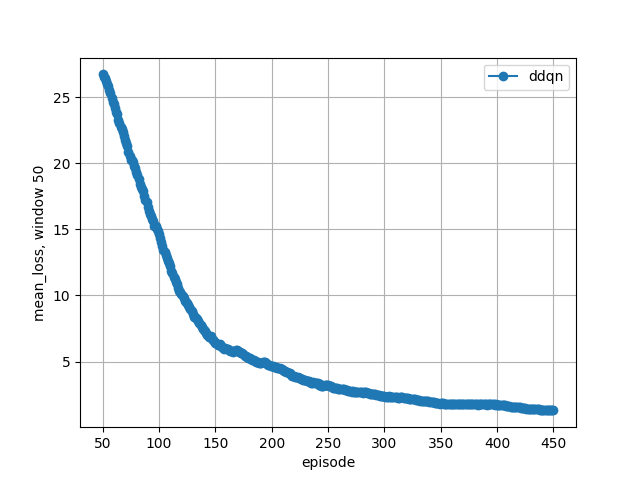
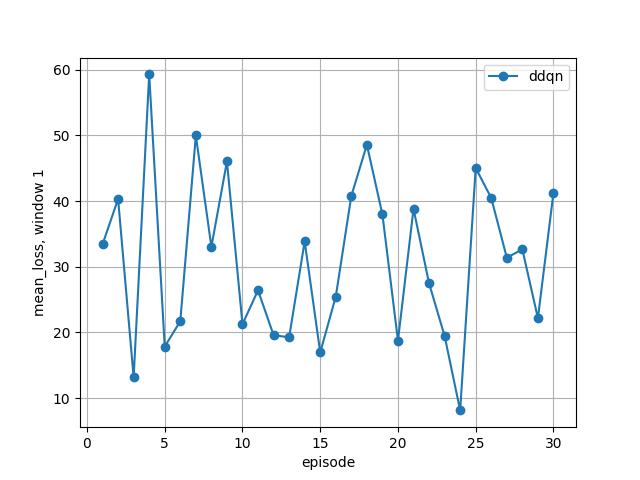
debug optimal solution

diff --git a/utils/optimum.py b/utils/optimum.py
@@ -16,6 +16,7 @@ class Opt:
         self.allowed_splits_blocks = allowed_splits_blocks
         self.max_energy_credit = self.scenario_params['max_energy_credit']
         self.max_inference_latency = self.scenario_params['max_inference_latency']
+        self.opt_split = None
         self.energy_credit_consumed = 0.0  # energy credit consumed initially is 0%
         self.total_flops_offloaded = 0  # captures the cumulative flops offloaded by the ue until now
         self.total_flops = 0  # captures total flops of all layers (static value)
@@ -31,7 +32,6 @@ class Opt:
         constraints_satisfied = [False for _ in range(num_feasible_splits)] # stores if constraints are satisfied
         # for each feasible split, compute the optimization and store it in a list
         # and check if constraints are satisfied, store the result in a list
-        #print(feasible_splits)
         for i, split in enumerate(feasible_splits):
             #print(split)
             # compute the flops to be offloaded due to this selected split
@@ -48,26 +48,39 @@ class Opt:
                 constraints_satisfied[i] = True
             else:
                 constraints_satisfied[i] = False
+        print(constraints_satisfied)
+        print(evaluations)
         # start with the first split as the default
         best_split_evaluation = evaluations[min_idx]
         best_split = feasible_splits[min_idx]
         # for each split that satisfies constraints, check if it's the minimum
         for i, opt in enumerate(evaluations):
-            if constraints_satisfied[i]:
-                if evaluations[i] < best_split_evaluation:
+            if not constraints_satisfied[i]:
+                continue
+            else:
+                if opt < best_split_evaluation:
                     min_idx = i
-                    best_split_evaluation = evaluations[min_idx]
+                    best_split_evaluation = opt
                     best_split = feasible_splits[min_idx]
+        print('best split {}, min idx {}'.format(best_split, min_idx))
+        # update the variables using the best split
+        flops_offloaded, flops_on_ue = self.get_flops_offloaded(best_split, self.allowed_splits_blocks)
+        # also update the energy credit consumed
+        energy_credit_criteria, energy_credit_consumed = self.check_energy_credit_budget(flops_offloaded)
+        self.total_flops_on_ue += flops_on_ue
+        if energy_credit_criteria:  # update only when the criteria is satisfied, else previous value remains
+            self.energy_credit_consumed = energy_credit_consumed
+            self.total_flops_offloaded += flops_offloaded
         # however, if none of the feasible splits satisfies the constraints, go to fallback option
         if True not in constraints_satisfied:
             best_split = [(0, 0, 18), (1, 18, 18), (2, 18, 18), (3, 18, 18)]
             print('No feasible solution found - ue computes everything')
-        # update the variables using the best split
-        flops_to_be_offloaded, flops_on_ue = self.get_flops_offloaded(best_split, self.allowed_splits_blocks)
-        self.total_flops_offloaded += flops_to_be_offloaded
-        self.total_flops_on_ue += flops_on_ue
+            # the flops on ue due to this selected split is the total flops
+            flops_on_ue = self.total_flops
+            self.total_flops_on_ue += flops_on_ue
         print(self.total_flops_offloaded)
-        # TODO: update the energy credit consumed here
+        print(self.total_flops_on_ue)
+        #self.opt_split = best_split
         return best_split
 
     def get_flops_offloaded(self, selected_split_config, allowed_splits_blocks):

diff --git a/main.py b/main.py
@@ -70,6 +70,9 @@ for ep in range(start_episode, scenario_params['n_episodes'] + 1):
     ue_energy_comp_per_episode = []
     ue_energy_comm_per_episode = []
     success_rate_per_episode = []
+    total_flops_offloaded_per_episode = []
+    total_flops_on_ue_per_episode = []
+    energy_credit_consumed_per_episode = []
     # ------------------------------
     if scenario_params['split_algorithm'] == 2: # update epsilon for ddqn based on episode number
         # initialize agent
@@ -119,9 +122,10 @@ for ep in range(start_episode, scenario_params['n_episodes'] + 1):
             split_config = generate_random_split(allowed_splits, num_nodes)  # Replace with RL method
         elif scenario_params['split_algorithm'] == 2:   # rl agent
             split_config = agent.execute(k, ep, model, episode_params, current_output)  # agent determines the split every time_interval seconds
+            #print('Energy credit consumed {} Split config {}'.format(agent.agent.energy_credit_consumed, split_config))
         else:
             split_config = opt.generate_optimal_split(k, ep, model, episode_params, current_output)
-            print('Optimal split {}'.format(split_config))
+            print('Energy credit consumed {} Optimal split {}'.format(opt.energy_credit_consumed, split_config))
         # compute inference using the generated split configuration
         total_time, ue_energy_comp, ue_energy_comm, current_output = compute_inference(split_config, model,
                                                                                        episode_params, current_output)
@@ -136,6 +140,7 @@ for ep in range(start_episode, scenario_params['n_episodes'] + 1):
         # print(f"Total Inference Time: {total_time:.6f}s")
         # print(f"UE Energy (Compute): {ue_energy_comp:.6f} J")
         # print(f"UE Energy (Comm): {ue_energy_comm:.6f} J")
+        # print()
         #
         inference_time_per_episode.append({'time_step': k, 'inference_time': total_time})
         ue_energy_comp_per_episode.append({'time_step': k, 'ue_energy_comp': ue_energy_comp})
@@ -143,6 +148,9 @@ for ep in range(start_episode, scenario_params['n_episodes'] + 1):
         if scenario_params['split_algorithm'] == 2:
             success_rate_per_episode.append({'time_step': k,
                                          'success_rate': (agent.agent.n_success / agent.agent.n_attempts_to_split) * 100})
+        total_flops_offloaded_per_episode.append({'time_step': k, 'y_net': agent.agent.total_flops_offloaded})
+        total_flops_on_ue_per_episode.append({'time_step': k, 'y_ue': agent.agent.total_flops_on_ue})
+        energy_credit_consumed_per_episode.append({'time_step': k, 'energy_credit': agent.agent.energy_credit_consumed})
         # -----------------------
         # Final Classification Output
         # -----------------------
@@ -168,7 +176,9 @@ for ep in range(start_episode, scenario_params['n_episodes'] + 1):
     # Save logging variables in this episode
     # --------------------------------------
     data = {'inference_time': inference_time_per_episode, 'ue_energy_comp': ue_energy_comp_per_episode,
-            'ue_energy_comm': ue_energy_comm_per_episode, 'success_rate': success_rate_per_episode}
+            'ue_energy_comm': ue_energy_comm_per_episode, 'success_rate': success_rate_per_episode,
+            'y_net': total_flops_offloaded_per_episode, 'y_ue': total_flops_on_ue_per_episode,
+            'energy_credit': energy_credit_consumed_per_episode}
     write_logs(scenario_params, ep, data, agent)
     # --------------------------------------
     # Display variables in this episode

diff --git a/rl/ddqn.py b/rl/ddqn.py
@@ -30,6 +30,7 @@ class DDQNAgent(nn.Module):
         self.layer1 = nn.Linear(self.n_states, 128)
         self.layer2 = nn.Linear(128, 128)
         self.layer3 = nn.Linear(128, self.n_actions)
+        self.split_config = None
         self.energy_credit_consumed = 0.0    # energy credit consumed initially is 0%
         self.total_flops_offloaded = 0  # captures the cumulative flops offloaded by the ue until now
         self.total_flops = 0    # captures total flops of all layers (static value)
@@ -136,26 +137,30 @@ class DDQNAgent(nn.Module):
         # if no, then ue cannot offload any layers to the network, computes everything on its own,
         # mark it as "unsuccessful", recompute inference time and ue energy for the fallback option
         if energy_credit_criteria and latency_criteria:
+            # selected split config satisfies constraints
+            self.split_config = selected_split_config
             self.success = 1
             self.n_success += 1
             self.total_flops_offloaded += flops_to_be_offloaded
+            # update the total flops on ue
+            self.total_flops_on_ue += flops_on_ue
             # energy credit consumed needs to be updated only when the ue offloads some layers to the network
             self.energy_credit_consumed = energy_credit_consumed
         else:
-            self.success = -1
+            self.success = -1   # do nothing, retain previous split
             # goto fallback option for agent, ue computes everything, no layers offloaded to network
-            selected_split_config = [(0, 0, 18), (1, 18, 18), (2, 18, 18), (3, 18, 18)]
-            # recompute the inference due to this fallback split
-            inference_time, ue_en_comp, ue_en_comm, _ = compute_inference(selected_split_config, dnn_model,
+            # selected_split_config = [(0, 0, 18), (1, 18, 18), (2, 18, 18), (3, 18, 18)]
+            # recompute the inference due to the split config from the previous iteration, no need to update anything else
+            inference_time, ue_en_comp, ue_en_comm, _ = compute_inference(self.split_config, dnn_model,
                                                                           episode_params,
                                                                           output)
             # the flops on ue due to this selected split is the total flops
-            flops_on_ue = self.total_flops
-        # update the total flops on ue
-        self.total_flops_on_ue += flops_on_ue
+            #flops_on_ue = self.total_flops
+        # # update the total flops on ue
+        # self.total_flops_on_ue += flops_on_ue
         #print('flops on ue {}, total flops on ue {}'.format(flops_on_ue, self.total_flops_on_ue))
         #print('flops offloaded {} total flops offloaded {}'.format(flops_to_be_offloaded, self.total_flops_offloaded))
-        return inference_time, ue_en_comp, ue_en_comm, selected_split_config
+        return inference_time, ue_en_comp, ue_en_comm
 
 
     def get_instant_reward(self, inference_time, ue_energy_comp, ue_energy_comm):

diff --git a/utils/logging_utils.py b/utils/logging_utils.py
@@ -15,8 +15,10 @@ def write_logs(scenario_params, episode, data, model):
     episode_count = parse_episode_number(order, episode)
     if scenario_params['split_algorithm'] == 1:
         folder = 'random'
+    elif scenario_params['split_algorithm'] == 2:
+        folder = 'rl/ddqn'
     else:
-        folder = 'rl'
+        folder = 'optimum'
     # inference time
     filename = '{}_{}'.format('inference_time', episode_count)
     writeToCsv(data['inference_time'], filename, folder)
@@ -26,18 +28,27 @@ def write_logs(scenario_params, episode, data, model):
     # ue energy communication
     filename = '{}_{}'.format('ue_energy_comm', episode_count)
     writeToCsv(data['ue_energy_comm'], filename, folder)
-    if folder == 'rl':
+    # total flops offloaded
+    filename = '{}_{}'.format('y_net', episode_count)
+    writeToCsv(data['y_net'], filename, folder)
+    # total flops on ue
+    filename = '{}_{}'.format('y_ue', episode_count)
+    writeToCsv(data['y_ue'], filename, folder)
+    # energy credit
+    filename = '{}_{}'.format('energy_credit', episode_count)
+    writeToCsv(data['energy_credit'], filename, folder)
+    if folder == 'rl/ddqn':
         # success rate
         filename = '{}_{}'.format('success_rate', episode_count)
         writeToCsv(data['success_rate'], filename, folder)
         if scenario_params['rl_algorithm'] == 1:    # ddqn
             save_model_params(model.agent, 'ddqn', 'main', scenario_params, episode_count)
             save_model_params(model.target_agent, 'ddqn', 'target', scenario_params, episode_count)
-            filename = 'ddqn/loss/loss_ep{}'.format(episode_count)
+            filename = 'loss/loss_ep{}'.format(episode_count)
             writeToCsv(model.agent.loss, filename, folder)
-            filename = 'ddqn/reward/reward_ep{}'.format(episode_count)
+            filename = 'reward/reward_ep{}'.format(episode_count)
             writeToCsv(model.agent.reward, filename, folder)
-            fol = 'rl/ddqn/epsilon'
+            fol = '{}/epsilon'.format(folder)
             logKPIs([model.agent.epsilon], 'epsilon', episode_count, fol)
 
 def logKPIs(data, kpi_type, episode_count, folder):

diff --git a/rl/agent.py b/rl/agent.py
@@ -55,8 +55,8 @@ class Agent:
         # if training mode is on
         if not self.scenario_params['inference']:
             # train the agent
-            final_action = self.train_ddqn_agent(time, dnn_model, episode_params, output)
-        return final_action
+            self.train_ddqn_agent(time, dnn_model, episode_params, output)
+        return self.agent.split_config
 
     def train_ddqn_agent(self, time, dnn_model, episode_params, output):
         """
@@ -74,10 +74,10 @@ class Agent:
         state = self.agent.get_agent_state(episode_params, self.flops_per_block)
         action = self.agent.choose_action(self.action_space, state)
         # this function also checks and returns the feasible action
-        inference_time, ue_en_comp, ue_en_comm, action = self.agent.perform_action(action, self.allowed_splits_blocks,
+        inference_time, ue_en_comp, ue_en_comm = self.agent.perform_action(action, self.allowed_splits_blocks,
                                                                            dnn_model, episode_params, output)
         for k, v in self.action_indices.items():
-            if v == action:
+            if v == self.agent.split_config:
                 action_idx = k
                 break
         #print('Split config {}, success {}, n_success {}'.format(action, self.agent.success, self.agent.n_success))
@@ -125,7 +125,6 @@ class Agent:
             if not self.agent.loss_counter % 50:
                 print('Loss {}'.format(loss.item()))
             self.agent.loss.append({'time': time, 'loss': loss.item()})
-        return action
 
     def define_agent_attributes(self):
         """

diff --git a/utils/action_space.py b/utils/action_space.py
@@ -63,18 +63,18 @@ def enumerate_action_space(allowed_splits, num_nodes, allow_empty_nodes=True):
 
 
 #Sample usage:
-# if __name__ == "__main__":
-#     allowed_splits = [0, 3, 6, 10, 14, 18]
-#     num_nodes = 4
-#     all_actions, action_indices = enumerate_action_space(allowed_splits, num_nodes, allow_empty_nodes=True)
-#     print(f"Total actions: {len(all_actions)}")
-#     for i, a in enumerate(all_actions):
-#         #print(a)
-#         action_indices[i] = a
-#     print(all_actions)
-#     #print(action_indices)
-#     act = [(0, 0, 3), (1, 3, 3), (2, 3, 6), (3, 6, 18)]
-#     for k, v in action_indices.items():
-#         if v == act:
-#             print(k)
+if __name__ == "__main__":
+    allowed_splits = [0, 3, 6, 10, 14, 18]
+    num_nodes = 4
+    all_actions, action_indices = enumerate_action_space(allowed_splits, num_nodes, allow_empty_nodes=True)
+    print(f"Total actions: {len(all_actions)}")
+    for i, a in enumerate(all_actions):
+        print(a)
+        action_indices[i] = a
+    print(all_actions)
+    #print(action_indices)
+    act = [(0, 0, 3), (1, 3, 3), (2, 3, 6), (3, 6, 18)]
+    for k, v in action_indices.items():
+        if v == act:
+            print(k)
 

diff --git a/postprocessing/convergence.py b/postprocessing/convergence.py
@@ -10,7 +10,7 @@ from utils.logging_utils import read_single_col_data, return_order, parse_episod
 
 
 def plot_metric(metric, df, outfile, folder):
-    window = 50
+    window = 1
     fig, ax = plt.subplots()
     roll_mean_loss = df[metric].rolling(window=window).mean()
     plt.plot(df['episode'], roll_mean_loss, marker='o', label='ddqn')
@@ -47,7 +47,7 @@ def main():
 
     params = generate_scenario()
     # specify the number of episodes to be plotted
-    n_episodes = 450
+    n_episodes = 30
     order_to_convert = 100
     generate_metric(params, n_episodes, order_to_convert, 'mean_loss')
     generate_metric(params, n_episodes, order_to_convert, 'mean_reward')
